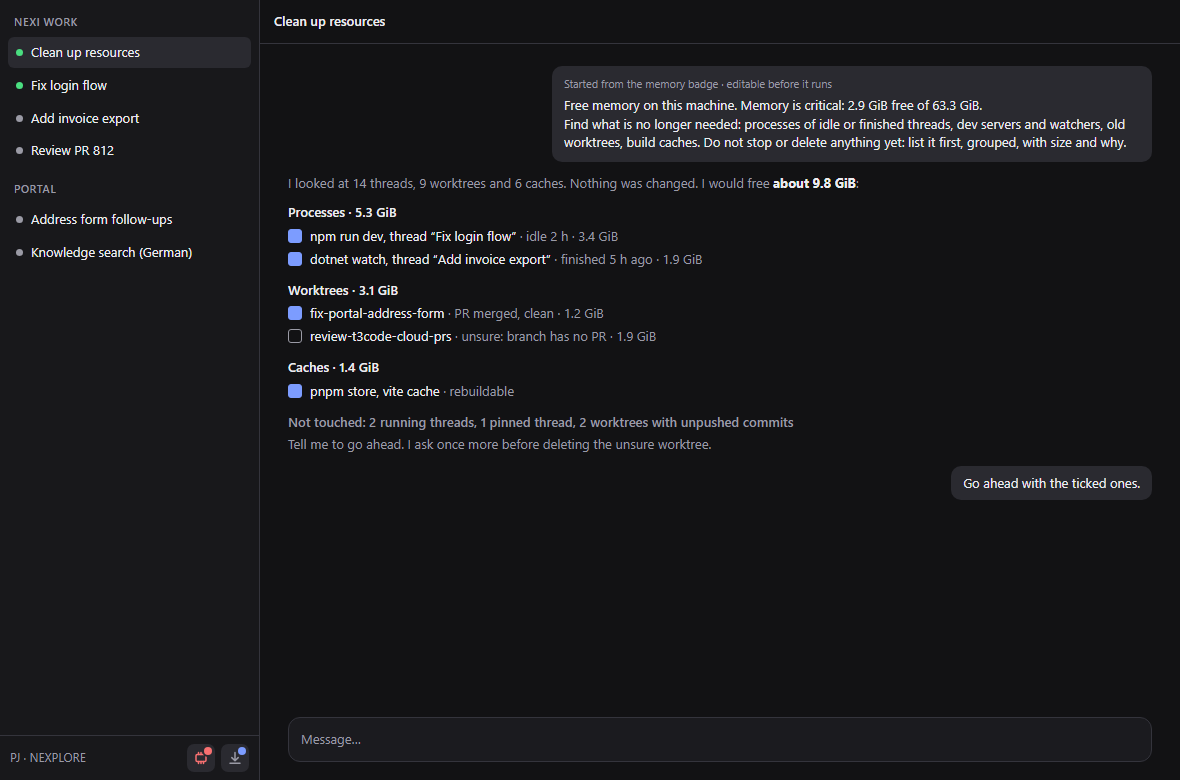
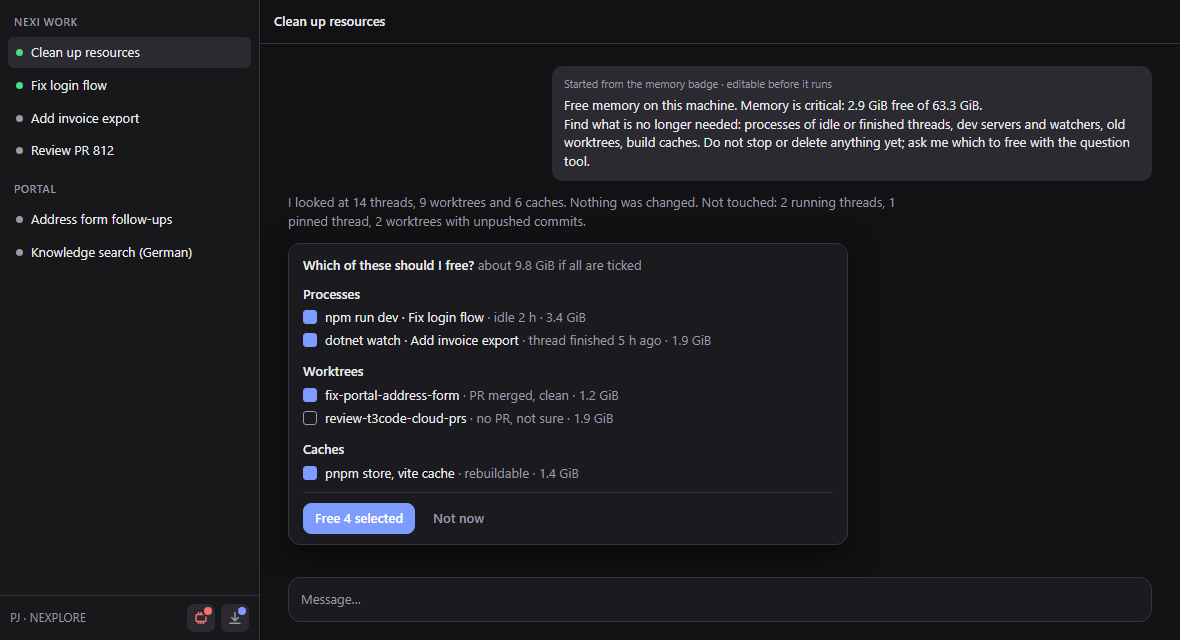
docs(mockup): the cleanup thread asks with the question tool; no typed approval
Mockup revision after PJ's review. Not for merge. Refs hive/nx-nexi#954

diff --git a/docs/mockups/pressure-compact-ui/t3team-mockup.html b/docs/mockups/pressure-compact-ui/t3team-mockup.html
@@ -63,7 +63,7 @@
   .check label { display:flex; gap:8px; padding:2px 0; color:var(--fg); }
   .check .box { width:14px; height:14px; border:1.5px solid var(--mut); border-radius:3px; flex:none; margin-top:2px; }
   .check .box.on { background:var(--acc); border-color:var(--acc); }
-  .check .why { color:var(--mut); } .check .lock { color:var(--mut); font-weight:500; }
+  .check .why, .q .why { color:var(--mut); font-weight:400; } .ask { align-self:flex-start; width:560px; max-width:100%; border:1px solid var(--bd); border-radius:12px; padding:12px 14px 10px; background:var(--panel); box-shadow:var(--shadow); } .ask .q { font-weight:600; margin-bottom:4px; } .check .lock { color:var(--mut); font-weight:500; }
 </style>
 </head>
 <body>
@@ -103,21 +103,22 @@ const chat = `<div class="msg me">Can you check why the dev server keeps eating 
 const cleanup = `
   <div class="prompt"><small>Started from the memory badge · editable before it runs</small>
     Free memory on this machine. Memory is critical: 2.9 GiB free of 63.3 GiB.<br>
-    Find what is no longer needed: processes of idle or finished threads, dev servers and watchers, old worktrees, build caches. Do not stop or delete anything yet: list it first, grouped, with size and why.</div>
-  <div class="msg">I looked at 14 threads, 9 worktrees and 6 caches. Nothing was changed. I would free <b style="color:var(--fg)">about 9.8 GiB</b>:
-  <div class="check">
-    <div class="grp">Processes · 5.3 GiB</div>
-    <label><span class="box on"></span><span>npm run dev, thread “Fix login flow” <span class="why">· idle 2 h · 3.4 GiB</span></span></label>
-    <label><span class="box on"></span><span>dotnet watch, thread “Add invoice export” <span class="why">· finished 5 h ago · 1.9 GiB</span></span></label>
-    <div class="grp">Worktrees · 3.1 GiB</div>
-    <label><span class="box on"></span><span>fix-portal-address-form <span class="why">· PR merged, clean · 1.2 GiB</span></span></label>
-    <label><span class="box"></span><span>review-t3code-cloud-prs <span class="why">· unsure: branch has no PR · 1.9 GiB</span></span></label>
-    <div class="grp">Caches · 1.4 GiB</div>
-    <label><span class="box on"></span><span>pnpm store, vite cache <span class="why">· rebuildable</span></span></label>
-    <div class="grp lock">Not touched: 2 running threads, 1 pinned thread, 2 worktrees with unpushed commits</div>
-  </div>
-  Tell me to go ahead. I ask once more before deleting the unsure worktree.</div>
-  <div class="msg me">Go ahead with the ticked ones.</div>`;
+    Find what is no longer needed: processes of idle or finished threads, dev servers and watchers, old worktrees, build caches. Do not stop or delete anything yet; ask me which to free with the question tool.</div>
+  <div class="msg">I looked at 14 threads, 9 worktrees and 6 caches. Nothing was changed. Not touched: 2 running threads, 1 pinned thread, 2 worktrees with unpushed commits.</div>
+  <div class="ask">
+    <div class="q">Which of these should I free? <span class="why">about 9.8 GiB if all are ticked</span></div>
+    <div class="check">
+      <div class="grp">Processes</div>
+      <label><span class="box on"></span><span>npm run dev · Fix login flow <span class="why">· idle 2 h · 3.4 GiB</span></span></label>
+      <label><span class="box on"></span><span>dotnet watch · Add invoice export <span class="why">· thread finished 5 h ago · 1.9 GiB</span></span></label>
+      <div class="grp">Worktrees</div>
+      <label><span class="box on"></span><span>fix-portal-address-form <span class="why">· PR merged, clean · 1.2 GiB</span></span></label>
+      <label><span class="box"></span><span>review-t3code-cloud-prs <span class="why">· no PR, not sure · 1.9 GiB</span></span></label>
+      <div class="grp">Caches</div>
+      <label><span class="box on"></span><span>pnpm store, vite cache <span class="why">· rebuildable · 1.4 GiB</span></span></label>
+    </div>
+    <div class="acts"><button class="btn pri">Free 4 selected</button><button class="btn ghost">Not now</button></div>
+  </div>`;
 
 const pressureBtn = `<button class="ibtn pressure ${cls}">${chip}<span class="badge ${cls}"></span></button>`;
 const updateBtn = `<button class="ibtn">${dl}<span class="badge" style="background:var(--acc)"></span></button>`;

diff --git a/docs/mockups/pressure-compact-ui/t3team-cleanup-workflow.md b/docs/mockups/pressure-compact-ui/t3team-cleanup-workflow.md
@@ -8,23 +8,23 @@ The drill-down's **Clean up…** button opens a **new visible thread** "Clean up
 Free memory on this machine. Memory is {level}: {free} free of {total}.
 
 Find what is no longer needed: processes of idle or finished threads, dev servers and
-watchers, old worktrees, build caches. Do not stop or delete anything yet: list it first,
-grouped, with size and why.
+watchers, old worktrees, build caches. Do not stop or delete anything yet; ask me which
+to free with the question tool.
 
 Rules (the host enforces the first four; you follow the rest):
 1. Never touch a running thread, a pinned thread, or a worktree with unpushed commits.
 2. Only stop processes and delete worktrees that the inventory tool lists as unprotected.
 3. A cache is deleted only if the inventory marks it rebuildable.
-4. Nothing is stopped or deleted before I confirm that exact list.
-5. If anything is unclear (no PR, unknown owner, recently modified), ask me; do not guess.
+4. Nothing is stopped or deleted before I choose in the question tool. I never have to type an approval.
+5. If anything is unclear (no PR, unknown owner, recently modified), offer it unticked in the same question; do not guess.
 6. Report what you freed, per item, and what you left alone.
 ```
 
 ## Steps the agent takes
 1. **Inventory (read only).** One host tool, `t3team.resources.inventory`, returns candidates: processes (pid, command, owning thread, thread state, idle time, RSS), worktrees (path, branch, PR state, dirty or unpushed, size, last used) and caches (path, size, rebuildable). Every row carries `protected: [reasons]` computed by the host: thread running, thread pinned, worktree has unpushed commits or uncommitted changes, process is not a descendant of this server.
 2. **Classify.** The agent groups the unprotected rows into: safe (owner finished, PR merged and clean, rebuildable cache), unsure (no PR, unknown owner, recent activity), and untouchable (everything protected, summarised in one line).
-3. **Propose.** One message: grouped checklist with size and reason, the total, and the "not touched" line (see the mockup). Nothing has changed at this point.
-4. **Confirm.** The user ticks or unticks and says go ahead. Unsure items are asked about once more, individually, before they are deleted.
+3. **Ask.** One call of the question tool (multi-select, grouped by processes, worktrees, caches): each option shows size and reason, safe items are pre-ticked, unsure items are unticked and say why. The agent first says in one line what it will not touch. Nothing has changed at this point.
+4. **Confirm.** The user ticks or unticks and presses "Free N selected" (or "Not now"). No typing. A ticked unsure item is the user's explicit choice.
 5. **Act.** The agent calls `t3team.resources.stop` or `t3team.resources.remove` with the confirmed ids only. The host re-checks protection and identity (pid plus start time, as the existing cleanup does) at call time and refuses protected or changed items, so a stale list cannot do harm.
 6. **Report.** Freed per item, refused items with the host's reason, and the new free memory.
 
@@ -32,5 +32,5 @@ Rules (the host enforces the first four; you follow the rest):
 The prompt states the rules, but the tools enforce them: the inventory flags protection, and the two action tools accept only ids from a fresh inventory, re-verify protection at call time, and never take a path or a pid typed by the agent. Worktrees and caches are deleted only through these tools, never through a shell command the agent invents.
 
 ## Not decided yet (needs PJ)
-- Whether the action tools need an approval prompt on top of the confirmation message (default in this design: no, the confirmation is the approval).
+- Whether the action tools need an approval prompt on top of the question-tool choice (default in this design: no, the choice is the approval).
 - Whether "old worktrees" may include worktrees of other projects (design: current project's machine only, listed per project).
